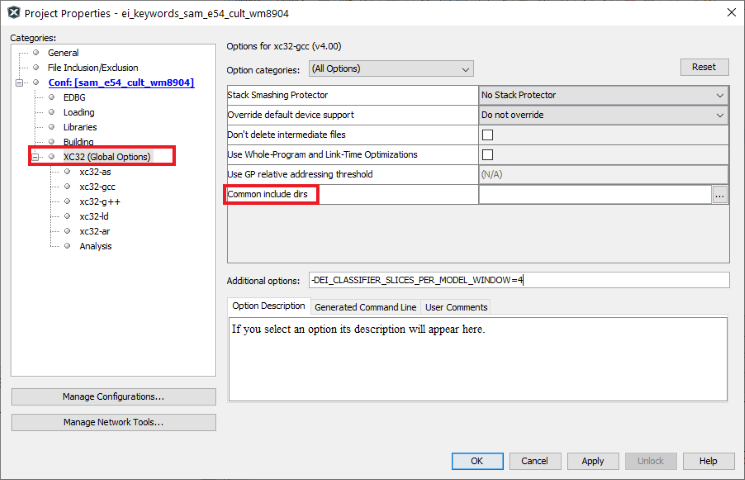
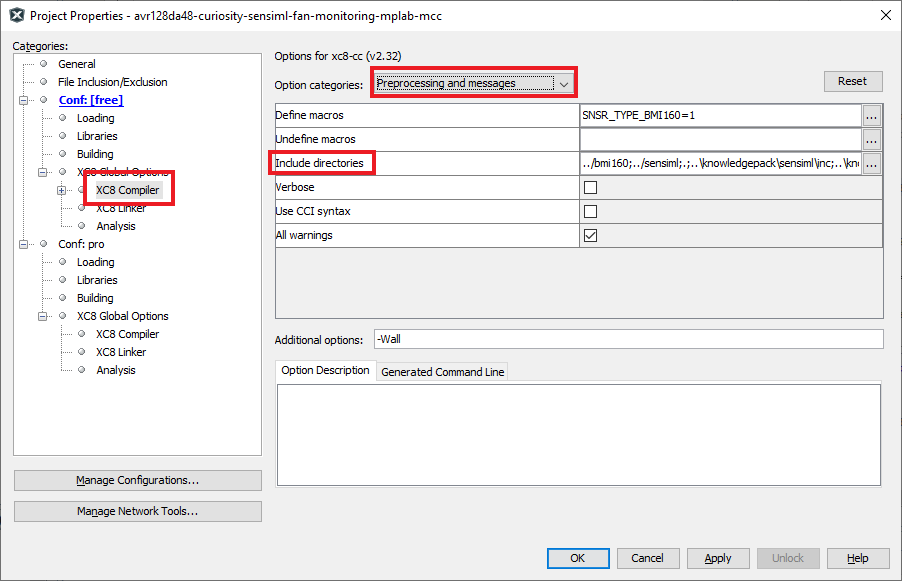
simplify docker builds; fix PRJ_BUILD_LIB=0
- More optimal Docker building; added docker_build.sh to simplify
- Fixed the building of template MPLABX project (PRJ_BUILD_LIB=0)

diff --git a/src/main.c b/src/main.c
@@ -1,0 +1,83 @@
+/*******************************************************************************
+  Main Source File
+
+  Company: Microchip Technology Inc.
+
+  File Name: main.c
+
+  Summary: This file contains the "main" function for a project.
+
+  Description:
+    This file is a template for implementing a SensiML knowledge pack. It
+    implements all stubs required by the Edge Impulse SDK.
+ *******************************************************************************/
+
+// *****************************************************************************
+// *****************************************************************************
+// Section: Included Files
+// *****************************************************************************
+// *****************************************************************************
+
+#include <xc.h>
+#include <stdlib.h>                     // Defines EXIT_FAILURE
+#include "kb.h"
+#include "kb_typedefs.h"
+
+// *****************************************************************************
+// *****************************************************************************
+// Section: SensiML stub definitions
+// *****************************************************************************
+// *****************************************************************************
+
+int sml_recognition_run(SENSOR_DATA_T *data, int nsensors)
+{
+    int ret;
+    ret = kb_run_model((SENSOR_DATA_T *) data, nsensors, 0);
+    if (ret >= 0) {
+        kb_reset_model(0);
+    };
+
+    return ret;
+}
+
+SENSOR_DATA_T read_sample(void) {
+    /* Implement signal data retrieval routine */
+    return 0;
+}
+
+// *****************************************************************************
+// *****************************************************************************
+// Section: Main Entry Point
+// *****************************************************************************
+// *****************************************************************************
+#define SENSOR_NUM_AXES 0
+
+
+void main(void) {
+    /* Initialize SensiML Knowledge Pack */
+    kb_model_init();
+
+    int class_id = 0;
+    while (1) {
+        /* Read a sensor sample */
+        SENSOR_DATA_T x = read_sample();
+
+        /* Feed sample into the SensiML API */
+        int ret = sml_recognition_run(&x, SENSOR_NUM_AXES);
+
+        /* Act on classification */
+        if (ret == 0) {
+            // Unknown class
+            class_id = ret;
+        }
+        else if (ret > 0) {
+            // One of the known classes
+            class_id = ret;
+        }
+        // else {
+        //     // No classification yet
+        // }
+    }
+
+    return ( EXIT_FAILURE );
+}

diff --git a/README.md b/README.md
@@ -31,16 +31,30 @@ To deploy a knowledge pack for the SAMD21 ML Eval Kit:
 | Deployment from the Analytics Studio |
 
 ## SensiML SDK Build Instructions
-The following steps cover compiling the Edge Impulse library into a static library object.
+The following steps cover compiling the SensiML library into a static library object.
 
 1. Extract the library from the step above directly into this folder.
 
 2. (Optional) Open `options.ini` and modify C as needed.
 
-3. Set the environment variables **PRJ_NAME** **DEVICE** **MPLAB_PATH**
-   **XC_PATH** as desired, then run `build.sh` to generate the library object.
-   For example:
-   - `PRJ_TARGET=ATSAME54P20A PRJ_NAME=libsensiml ./build.sh`
+3. Set the environment variables `MPLABX_VERSION XC_NUMBER_BITS XC_VERSION` as
+   desired, then run `build.sh` to generate the library object. For example:
+
+   `./build.sh ATSAME54P20A libsensiml .`
+
+## Docker Build
+To launch a Docker build for a specific target build arguments must be set as
+shown in the included example `.args` files. See `docker_build.sh` for a full
+example for building the docker image and generating the SensiML
+library/project. To run the script with non-default arguments, just set the
+corresponding variables in your environment e.g.:
+
+```bash
+PRJ_TARGET=ATSAME54P20A BUILD_ARGS_FILE=./SAME54.args PRJ_BUILD_LIB=1 ./docker_build.sh
+```
+
+See [packs.download.microchip.com](https://packs.download.microchip.com/) for
+device family pack listings.
 
 ## Integration Instructions
 Below are instructions for integrating the library object, compiled with the
@@ -51,23 +65,21 @@ steps above, into an MPLAB X project.
 
    ![Add library object](assets/addlibrary.png)
 
-2. Add the `src/ei_porting.cpp` file from this repository to your project, this implements the required Edge Impulse stubs.
-
-3. Use `src/main.cpp` as a template for integrating the Edge Impulse library
+2. Use `src/main.c` as a template for integrating the SensiML library
    into your project.
 
-4. Add the path to the directory where the SDK is extracted in your include path
-   under *Project Properties* -> *XC32 Global Options* -> *Common include dirs*
+3. Add the path to the directory where the SDK is extracted in your include path
+   under *Project Properties* -> *xc32/16/8-gcc* -> *Preprocessing and messages* -> *Common include dirs*
 
    ![Add include directory](assets/include.png)
 
-5. Ensure that the `Remove unused sections` option under *Project Properties* ->
+4. Ensure that the `Remove unused sections` option under *Project Properties* ->
    *xc32-ld* is enabled (see (2) in the image below); this will eliminate any
    unused data or functions from the SDK to reclaim device memory.
 
    ![Add include directory](assets/linker.png)
 
-You should now have your Edge Impulse model fully integrated with an MPLAB X
-project. In order to update the deployed model, simply repeat the steps from the
-[build instructions](#sensiml-sdk-build-instructions) section above.
+You should now have your SensiML model fully integrated with an MPLAB X project.
+In order to update the deployed model, simply repeat the steps from the [build
+instructions](#sensiml-sdk-build-instructions) section above.
 
